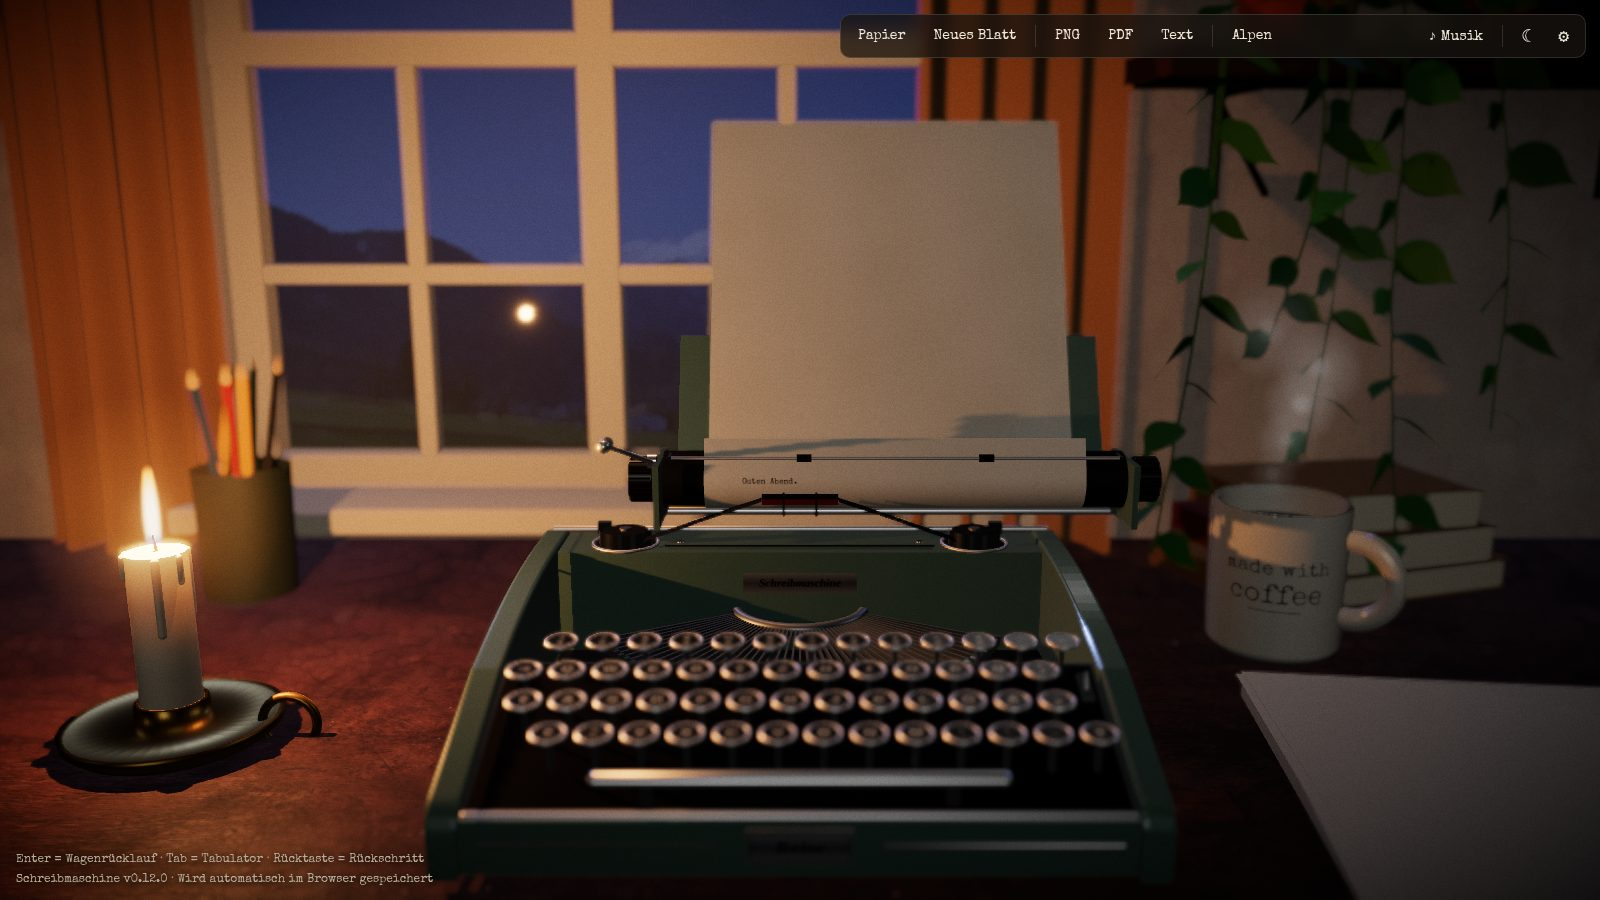
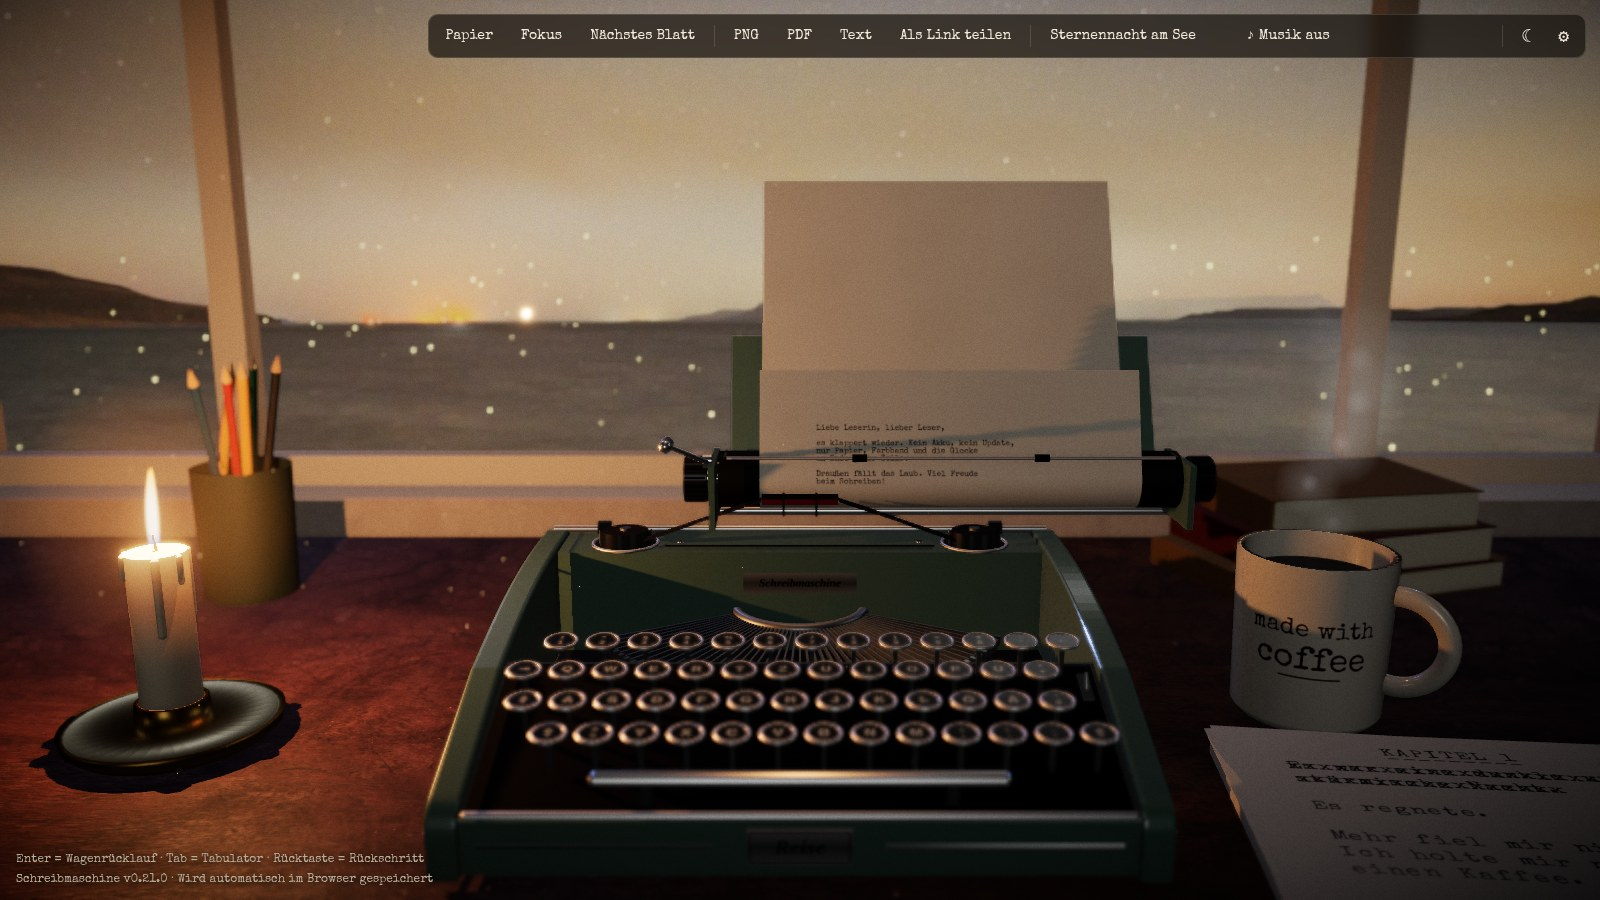
docs: README und Screenshots auf Stand v0.21.0

diff --git a/README.md b/README.md
@@ -6,7 +6,7 @@ Ohne Installation, ohne Konto, auf jedem Rechner.
 
 ### ▶ [Jetzt ausprobieren: s84n.github.io/Schreibmaschine](https://s84n.github.io/Schreibmaschine/)
 
-![Die Schreibmaschine auf dem Schreibtisch, im Hintergrund ein Fenster mit Blick auf die Alpen](docs/screenshot.jpg)
+![Die Schreibmaschine auf dem Schreibtisch, dahinter ein großes Panoramafenster mit Blick auf einen roten japanischen Ahornwald](docs/screenshot.jpg)
 
 ---
 
@@ -28,12 +28,20 @@ normalen Tastatur – und die Maschine antwortet:
   Walze dreht eine Zeile weiter und der Wagen rauscht zurück.
 - Die Geräusche stammen von **echten Schreibmaschinen-Aufnahmen**.
 
-Dazu ein ruhiges Zimmer: weiße Wände, ein Holztisch, eine Kaffeetasse, ein Regal mit
-Efeutute – und ein Fenster, durch das du hinausschaust.
+Dazu ein ruhiges Zimmer: weiße Wände, ein Holztisch, eine Kaffeetasse, Kerze und Bücher –
+und ein großes Panoramafenster, hinter dem sich die Welt bewegt.
 
 ![Nahaufnahme: getippter Text auf dem Papier in der Walze](docs/screenshot-paper.jpg)
 
-![Nachtmodus: Kerze neben der Schreibmaschine, dunkles Fenster](docs/screenshot-night.jpg)
+![Nachtmodus: brennende Kerze neben der Schreibmaschine, draußen die letzte Dämmerung über dem See](docs/screenshot-night.jpg)
+
+![Aussicht auf ein Dorf mit bunten Holzhäusern in China](docs/screenshot-village.jpg)
+
+![Bergsee im Winter: Schnee fällt vor dem Fenster](docs/screenshot-winter.jpg)
+
+![Regenwetter am nordischen See: Tropfen auf der Scheibe](docs/screenshot-rain.jpg)
+
+![Einstellungen mit „Neues Dokument“, Songauswahl und getrennten Reglern für Geräusche, Musik und Regen](docs/screenshot-settings.jpg)
 
 ## Was du alles machen kannst
 
@@ -41,21 +49,23 @@ Efeutute – und ein Fenster, durch das du hinausschaust.
 |---|---|
 | ✍ **Schreiben** | Einfach lostippen. Rücktaste setzt den Wagen zurück – Überschreiben wie früher inklusive. |
 | 🏔 **Aussicht wählen** | Alpen, Bergsee im Winter, nordischer See, Mittelmeer, ein chinesisches Dorf, ein japanischer Ahornwald, Istanbul, ein Büro hoch über Manhattan, Dubai in der Dämmerung oder eine Sternennacht am See. |
-| 🌿 **Lebendige Aussicht** | Hinter dem großen Panoramafenster ziehen Wolken, das Wasser kräuselt sich, Wind geht durchs Laub, und je nach Ort fliegen Vögel, fällt Schnee oder segeln Ahornblätter. |
-| 🎷 **Musik wählen** | Drei eigene Songs, passend zum Schreiben, laufen in Dauerschleife. |
+| 🌿 **Lebendige Aussicht** | Hinter dem großen Panoramafenster ziehen Wolken, das Wasser kräuselt sich, Wind geht durchs Laub, und je nach Ort fliegen Vögel, fällt Schnee, segeln Ahornblätter oder tanzen Glühwürmchen – per Schalter an und aus. |
+| 🎷 **Musik wählen** | Drei eigene Songs laufen in Dauerschleife: Asia, Middle East und America. |
+| 🎚 **Alles einzeln regeln** | Geräusche der Maschine, Musik und Regen haben je einen eigenen Lautstärkeregler. |
 | 💾 **Nichts verlieren** | Dein Blatt wird automatisch im Browser gespeichert und ist beim nächsten Besuch wieder da. |
 | 📄 **Exportieren** | Die fertige Seite als **PNG**, als **PDF** (A4) oder als reinen **Text** herunterladen. |
 | 📚 **Manuskript** | Fertige Blätter landen auf dem Stapel; PDF und Text enthalten alle Seiten. |
+| 🆕 **Neues Dokument** | Im Zahnrad-Menü: löscht alle Blätter und beginnt von vorn, damit im nächsten Export nichts Altes auftaucht. |
 | 💌 **Brief als Link** | Der Empfänger sieht deinen Text Anschlag für Anschlag entstehen. Er steckt nur im Link, auf keinem Server. |
 | 🎯 **Fokus-Modus** | F2 blendet alles aus, außer Papier und Maschine. |
 | 🕯 **Tag & Nacht** | Nachts brennt links eine Kerze mit flackerndem Licht, über dem Fenster leuchtet eine Lichterkette. |
 | 🎀 **Farbband wechseln** | Schwarz, Rot, Königsblau, Tannengrün, Violett oder Sepia – Geschriebenes behält seine Farbe. |
 | 🏛 **Modell wählen** | Reise (1950er), Kontor (1930er, Messing) oder Flach (1960er) – eigene Entwürfe mit derselben Mechanik. |
-| 🌧 **Regenwetter** | Tropfen laufen die Scheibe hinab, dazu Regen mit Prasseln an der Scheibe und Tropfen vom Dach – per Schalter an und aus. |
-| ✨ **Grafik-Effekte** | Staub im Licht, Lichtstrahlen und Kontaktschatten – jeweils per Schalter. |
+| 🌧 **Regenwetter** | Tropfen laufen die Scheibe hinab, dazu leises Prasseln und im Hintergrund Tropfen auf dem Dach – per Schalter an und aus, mit eigenem Lautstärkeregler. |
+| ✨ **Grafik-Effekte** | Staub im Licht, Lichtstrahlen und Kontaktschatten – jeweils per Schalter. Fünf Aussichten sowie Dorf und Ahornwald liegen in hoher Auflösung bis 8K vor. |
 | 🎨 **Anpassen** | Gehäusefarbe (Salbeigrün, Bordeaux, Schwarz, Creme), QWERTZ oder QWERTY, Deutsch oder Englisch, zwei Grafikstufen. |
 | 📲 **Am Smartphone** | Im Querformat; ⌨ öffnet die Tastatur, alles Weitere liegt im Zahnrad-Menü. |
-| 📱 **Als App installieren** | Die Seite lässt sich wie eine App installieren und funktioniert danach auch **offline**. |
+| 📱 **Als App installieren** | Die Seite lässt sich wie eine App installieren und funktioniert danach auch **offline**. Nur Songs brauchen Internet, und Aussichten stehen offline bereit, sobald du sie einmal geöffnet hast. |
 
 ### Tasten
 
@@ -81,10 +91,12 @@ zum Herunterladen.
 - **Das Papier** ist eine gezeichnete Textur, die sich um die Walze biegt. Jeder
   Buchstabe wird mit eigenem Zufallswert aufgedruckt – deshalb sieht der Export genauso
   aus wie das Blatt in der Maschine.
-- **Der Klang** läuft über die **Web Audio API**: echte Aufnahmen, leicht in Tonhöhe und
-  Lautstärke variiert, mit etwas Kompression und einem Hauch Raumhall.
-- **Die Musik** sind eigene, mit KI erstellte Songs aus `public/music`; sie laufen über
-  denselben Audio-Weg wie die Geräusche und folgen dem Lautstärkeregler.
+- **Der Klang** läuft über die **Web Audio API**: echte Aufnahmen, ergänzt um Taste, Walze,
+  Gehäuse, Schaltklinke und zurückfallenden Hebel. Jede Taste klingt etwas anders, schnelles
+  Tippen weicher. Der Regen wird komplett im Browser erzeugt.
+- **Die Aussicht** lebt im Shader: Wolken, Wellen und Wind entstehen in Echtzeit auf dem
+  Panoramafoto, Vögel, Schnee und Blätter sind Partikel davor. Videos sind dafür nicht nötig.
+- **Die Musik** sind eigene, mit KI erstellte Songs aus `public/music`.
 - **Gebaut** mit [Vite](https://vite.dev) und TypeScript, **veröffentlicht** automatisch
   über GitHub Pages, **installierbar** dank [vite-plugin-pwa](https://vite-pwa-org.netlify.app).
 
@@ -109,15 +121,19 @@ Dieses Projekt steht auf den Schultern von Menschen, die ihre Arbeit frei teilen
 
 **Aussichten aus dem Fenster**
 - [Poly Haven](https://polyhaven.com) (CC0): Alpen, Bergsee im Winter, nordischer See, Mittelmeer, Sternennacht
+- [„Tofuku-ji, Kyoto“](https://commons.wikimedia.org/wiki/File:Tofuku-ji,_Kyoto_-_Tofukuji6598.jpg) von **lumoplank**, CC0
+- [„Jiuzhaigou Valley, Shuzheng Village panorama“](https://commons.wikimedia.org/wiki/File:1_jiuzhaigou_valley_shuzheng_village_panorama_2011.jpg) von **Chensiyuan**, [CC BY-SA 4.0](https://creativecommons.org/licenses/by-sa/4.0/)
 - [„Galata panorama 1“](https://commons.wikimedia.org/wiki/File:Galata_panorama_1_-_panoramio.jpg) von **müşfik öztürk**, [CC BY 3.0](https://creativecommons.org/licenses/by/3.0/)
 - [„New York march 2025 Gn-092“](https://commons.wikimedia.org/wiki/File:New_York_march_2025_Gn-092.jpg) von **Gnangarra**, [CC BY 2.5 AU](https://creativecommons.org/licenses/by/2.5/au/deed.en)
 - [„Dubai skyscrapers“](https://commons.wikimedia.org/wiki/File:Dubai_skyscrapers.jpg) von **Challiyan**, [CC BY-SA 3.0](https://creativecommons.org/licenses/by-sa/3.0/)
+
+**Musik** – eigene Songs des Projekts, erstellt mit KI
 
 **Texturen** – [Poly Haven](https://polyhaven.com) (CC0): Holztisch, Putzwand, Dielenboden
 
 **Schrift** – [Special Elite](https://fonts.google.com/specimen/Special+Elite) von Astigmatic, Apache License 2.0
 
-Die Klänge wurden zugeschnitten und im Pegel angepasst, die Fotos verkleinert und zu
-Panoramabändern erweitert. Details stehen in [`public/sounds/LICENSES.md`](public/sounds/LICENSES.md),
+Die Klänge wurden zugeschnitten und im Pegel angepasst, die Fotos zugeschnitten, in Farbe
+angepasst und zu Panoramabändern erweitert. Details stehen in [`public/sounds/LICENSES.md`](public/sounds/LICENSES.md),
 [`public/views/LICENSES.md`](public/views/LICENSES.md) und
 [`public/textures/LICENSES.md`](public/textures/LICENSES.md).
